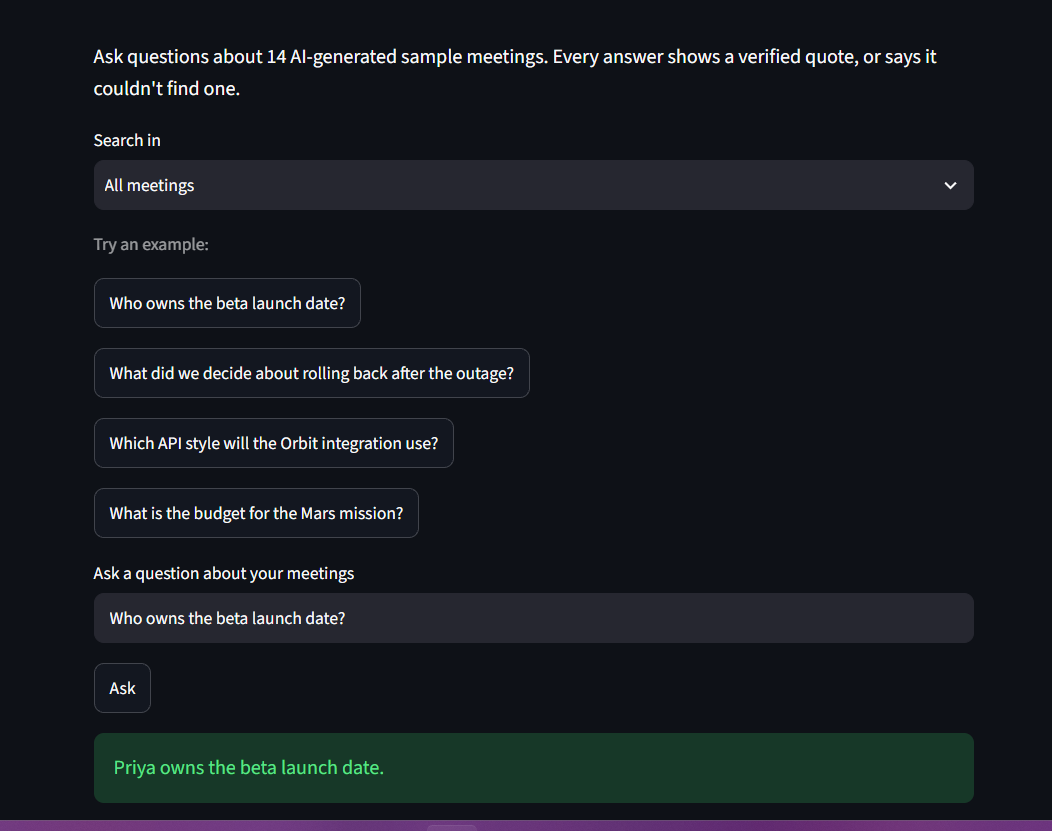
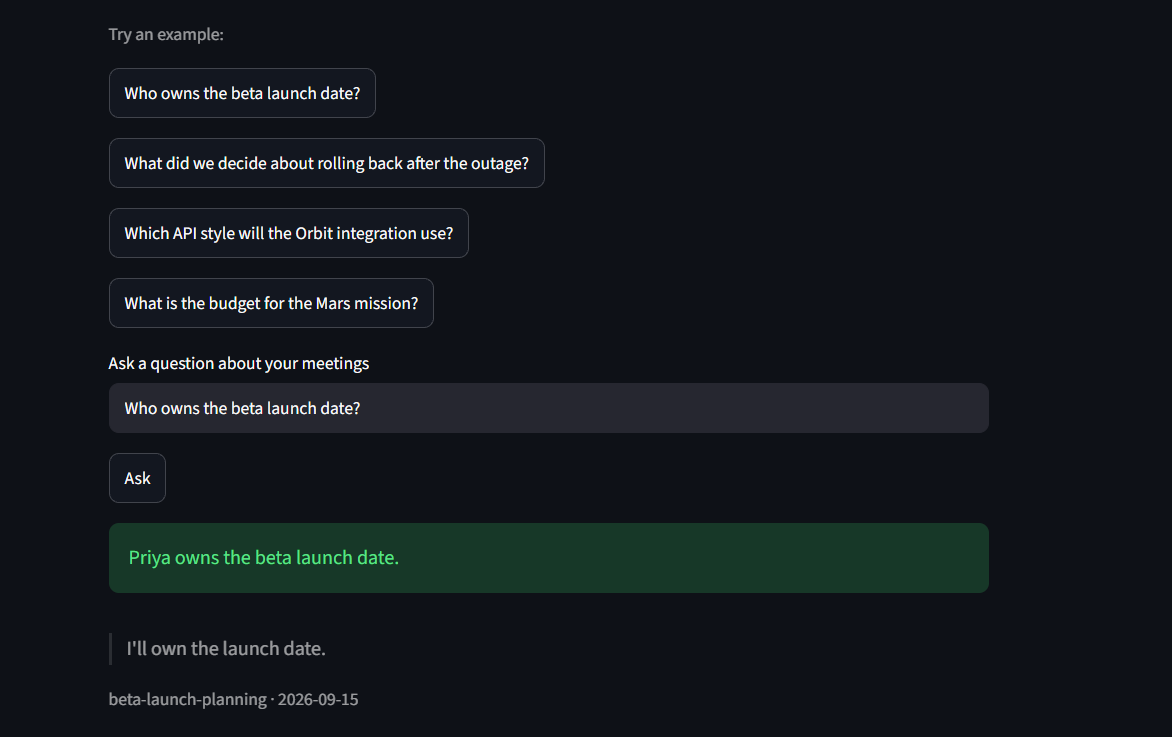
Use Meeting Tracker screenshot that shows the verified quote
Claude-Session: https://claude.ai/code/session_01YEperQZU5kBBXgBraqU1Fa

Changed region(s): [[0.0, 0.2809, 1.0, 1.0], [0.0913, 0.0312, 0.943, 0.2497]]

diff --git a/src/data/projects.js b/src/data/projects.js
@@ -21,7 +21,7 @@ export const projects = [
         text:
           "Teams make decisions in meetings and then lose track of them. This app extracts decisions and action items from meeting transcripts and lets you ask questions across past meetings. Every extracted item carries a quote from the transcript, and the code checks that the quote is really there.",
       },
-      { image: "/meeting-tracker-demo.png", alt: "Meeting Intelligence Tracker app answering \"Who owns the beta launch date?\" with \"Priya owns the beta launch date.\"" },
+      { image: "/meeting-tracker-demo.png", alt: "Meeting Intelligence Tracker app answering \"Who owns the beta launch date?\" with \"Priya owns the beta launch date.\" and the verified quote \"I'll own the launch date.\" from the beta-launch-planning meeting" },
       {
         heading: "Features",
         list: [
